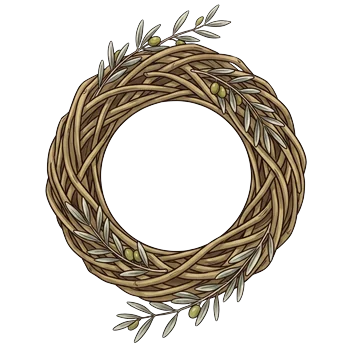
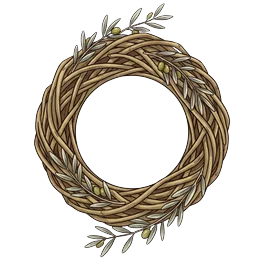
The olive's faces at 7.6% of the width, so no two frames touch at 375; one size in every season, the frames re-exported for it

diff --git a/public/assets/tree.css b/public/assets/tree.css
@@ -422,3 +422,7 @@
 /* the closest seats are 13.8 % of the width apart: the tag stays inside that, the dates may wrap */
 .tree:is([data-kind="pine"], [data-kind="olea"]):not([data-look="frame"]) .tr-tag { max-inline-size: 13.4cqi; padding-inline: 4px; }
 .tree:is([data-kind="pine"], [data-kind="olea"]):not([data-look="frame"]) .tr-tag small { white-space: normal; }
+/* the face is smaller in the olive (the owner, for the thick summer frame): 7.6% of the width, so no two frames' leaves touch,
+   with a 2 px gap at 375 and on desktop; one size in every season and for empty seats, so nothing jumps. The seats stay. (After the shared
+   rule above, which has the same specificity.) */
+.tree[data-kind="olea"]:not([data-look="frame"]) .tr-p { --leaf: 7.6cqi; }

diff --git a/docs/design/art/cut-olive-head-frames.py b/docs/design/art/cut-olive-head-frames.py
@@ -2,12 +2,12 @@
 # The white outside, the hole and the gaps between the twigs go; edges un-multiplied from white.
 # Normalised: each is scaled so its hole (the largest circle inside it) has radius HOLE px, centred on the canvas, so the face
 # sits the same in every season. The face's radius is HOLE * TUCK (it tucks under the ring a little), so in tree.css the frame
-# is SIDE / (2 * HOLE * TUCK) times the face's width. Sized for the seat at 2x on desktop (the tree at most 760 px, the seat
-# 10.04% of it: a 76 px face).   python docs/design/art/cut-olive-head-frames.py   (numpy, scipy, Pillow)
+# is SIDE / (2 * HOLE * TUCK) times the face's width. Sized for the seat at 2x on desktop (the tree at most 760 px, the olive's
+# framed face 7.6% of it, so the neighbours' leaves don't touch at 375: a 58 px face).   python docs/design/art/cut-olive-head-frames.py   (numpy, scipy, Pillow)
 import numpy as np
 from PIL import Image
 from scipy import ndimage as ndi
-SIDE, HOLE, TUCK = 352, 74, 1.04
+SIDE, HOLE, TUCK = 264, 55.5, 1.04
 for n, name in (('33', 'winter'), ('34', 'summer')):
     a = np.asarray(Image.open(f'data/art/owner-2026-11-14/{n}.webp').convert('RGB')).astype(np.float32)
     mn, mx = a.min(-1), a.max(-1)

diff --git a/docs/areas/design/status.md b/docs/areas/design/status.md
@@ -2,7 +2,16 @@
 
 Updated by the department at the end of every meaningful round of work. Short: the master reads it for the board meeting.
 
-_Updated 2026-11-14 (the new chat, round 6)._
+_Updated 2026-11-14 (the new chat, round 7)._
+
+## Round 7 (2026-11-14): the olive's faces smaller (the owner's choice)
+
+- In olea the face is 7.6% of the tree's width (was 10.04%): 27 px at 375, 58 px on desktop; one size in every season and on
+  empty seats, the seats unchanged. Measured from the frames' own pixels at every seat: no two frames' leaves touch, with a
+  gap of at least 2 px at 375, 380 and 760 (8% still touched at 375). Initials 11 px, names 17 px.
+- The frames are re-exported for the new size (264 px, 12 and 17 KB, the same hole). Checked at 375 and 1280, light and dark;
+  audit clean.
+
 
 ## Round 6 (2026-11-14): the olive's head frames (33 winter, 34 summer)
 
@@ -12,8 +21,7 @@ _Updated 2026-11-14 (the new chat, round 6)._
 - tree.css: a frame round every seated person in olea, in place of the CSS ring (empty seats have none). Winter and snow wear
   33; summer, autumn and spring wear 34. Seats unchanged. Checked at 375 and 1280, light and dark; audit clean; no tag is
   covered by another seat's frame.
-- **Weak spot:** the summer ring is thick (the ring itself 1.7× the face, with leaves 2.3×), so neighbours' leaves touch
-  and the tree looks busy at 375. If the owner finds it too heavy: a thinner summer frame, or the face smaller in olea.
+- The summer ring is thick (1.7× the face, 2.3× with leaves): round 7 made the face smaller.
 
 
 ## Round 5 (2026-11-14): the olive's seasons (29-31), the olive share frame (28)
